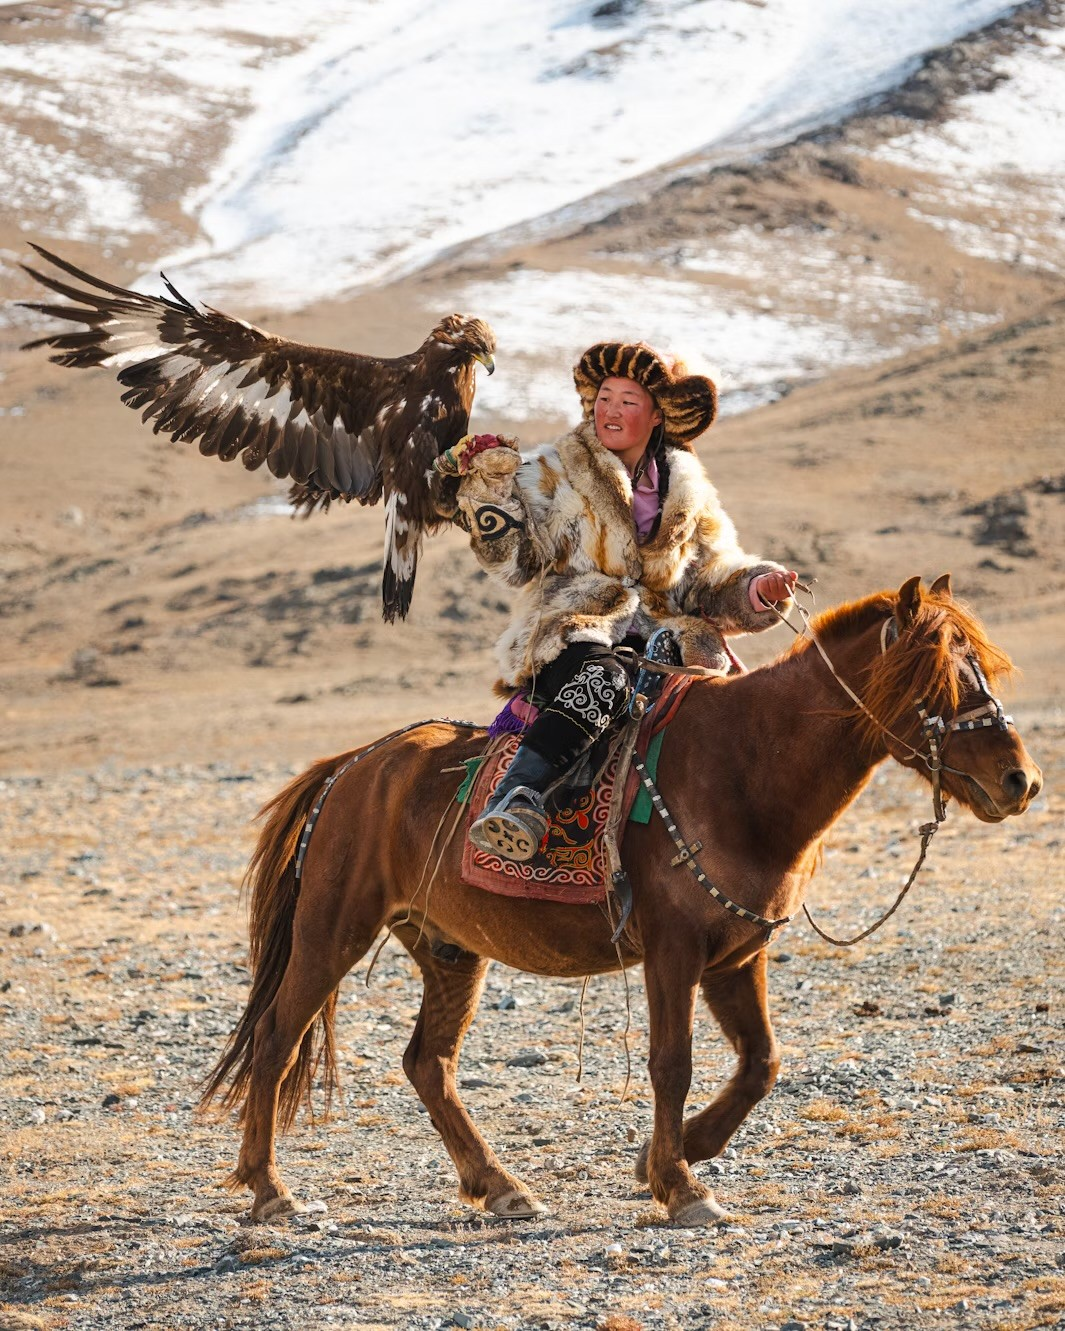
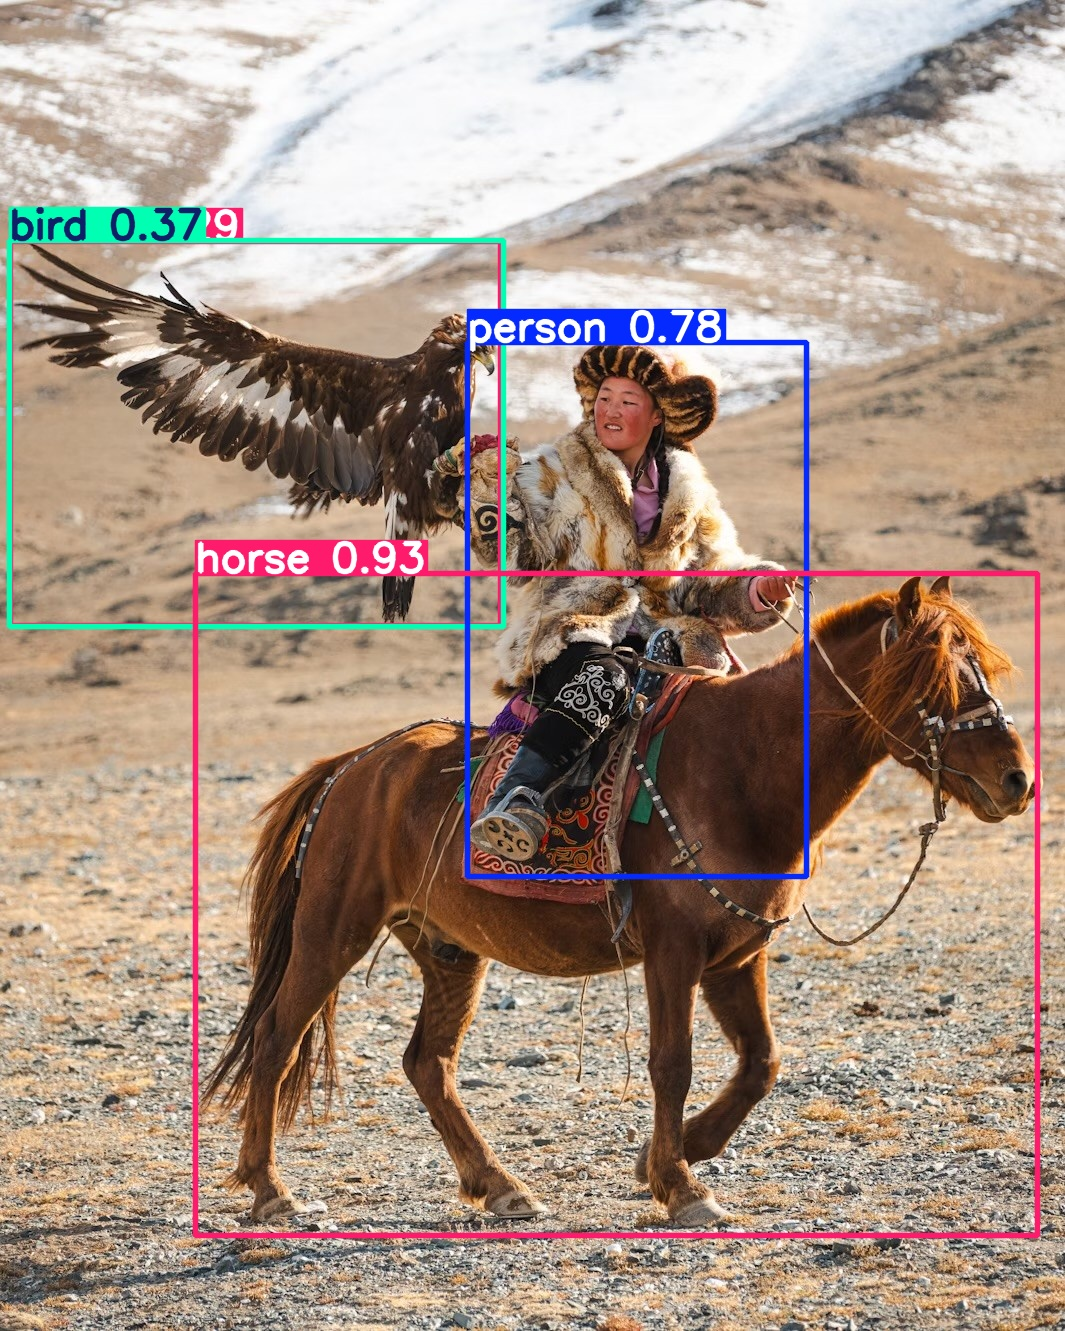
modified:   src/detect.py 	modified:   static/thumbnail_image0.jpg 	outputs/detected_sample_2.jpg

Changed region(s): [[0.0, 0.154, 0.7746, 0.9241], [0.1859, 0.4313, 0.9915, 0.9549]]

diff --git a/src/detect.py b/src/detect.py
@@ -3,12 +3,12 @@ import cv2
 from PIL import Image
 
 model = YOLO("yolov8n.pt")
-img_path = "/workspaces/CV/static/sample.jpg"
+img_path = "/workspaces/CV/static/thumbnail_image0.jpg"
 results = model(img_path)
 
 annotated_frame = results[0].plot()
 
-output_path = "/workspaces/CV/outputs/detected_sample.jpg"
+output_path = "/workspaces/CV/outputs/detected_sample_2.jpg"
 cv2.imwrite(output_path, annotated_frame)
 
 print(f"Detection Complete. Output saved to: {output_path}")
